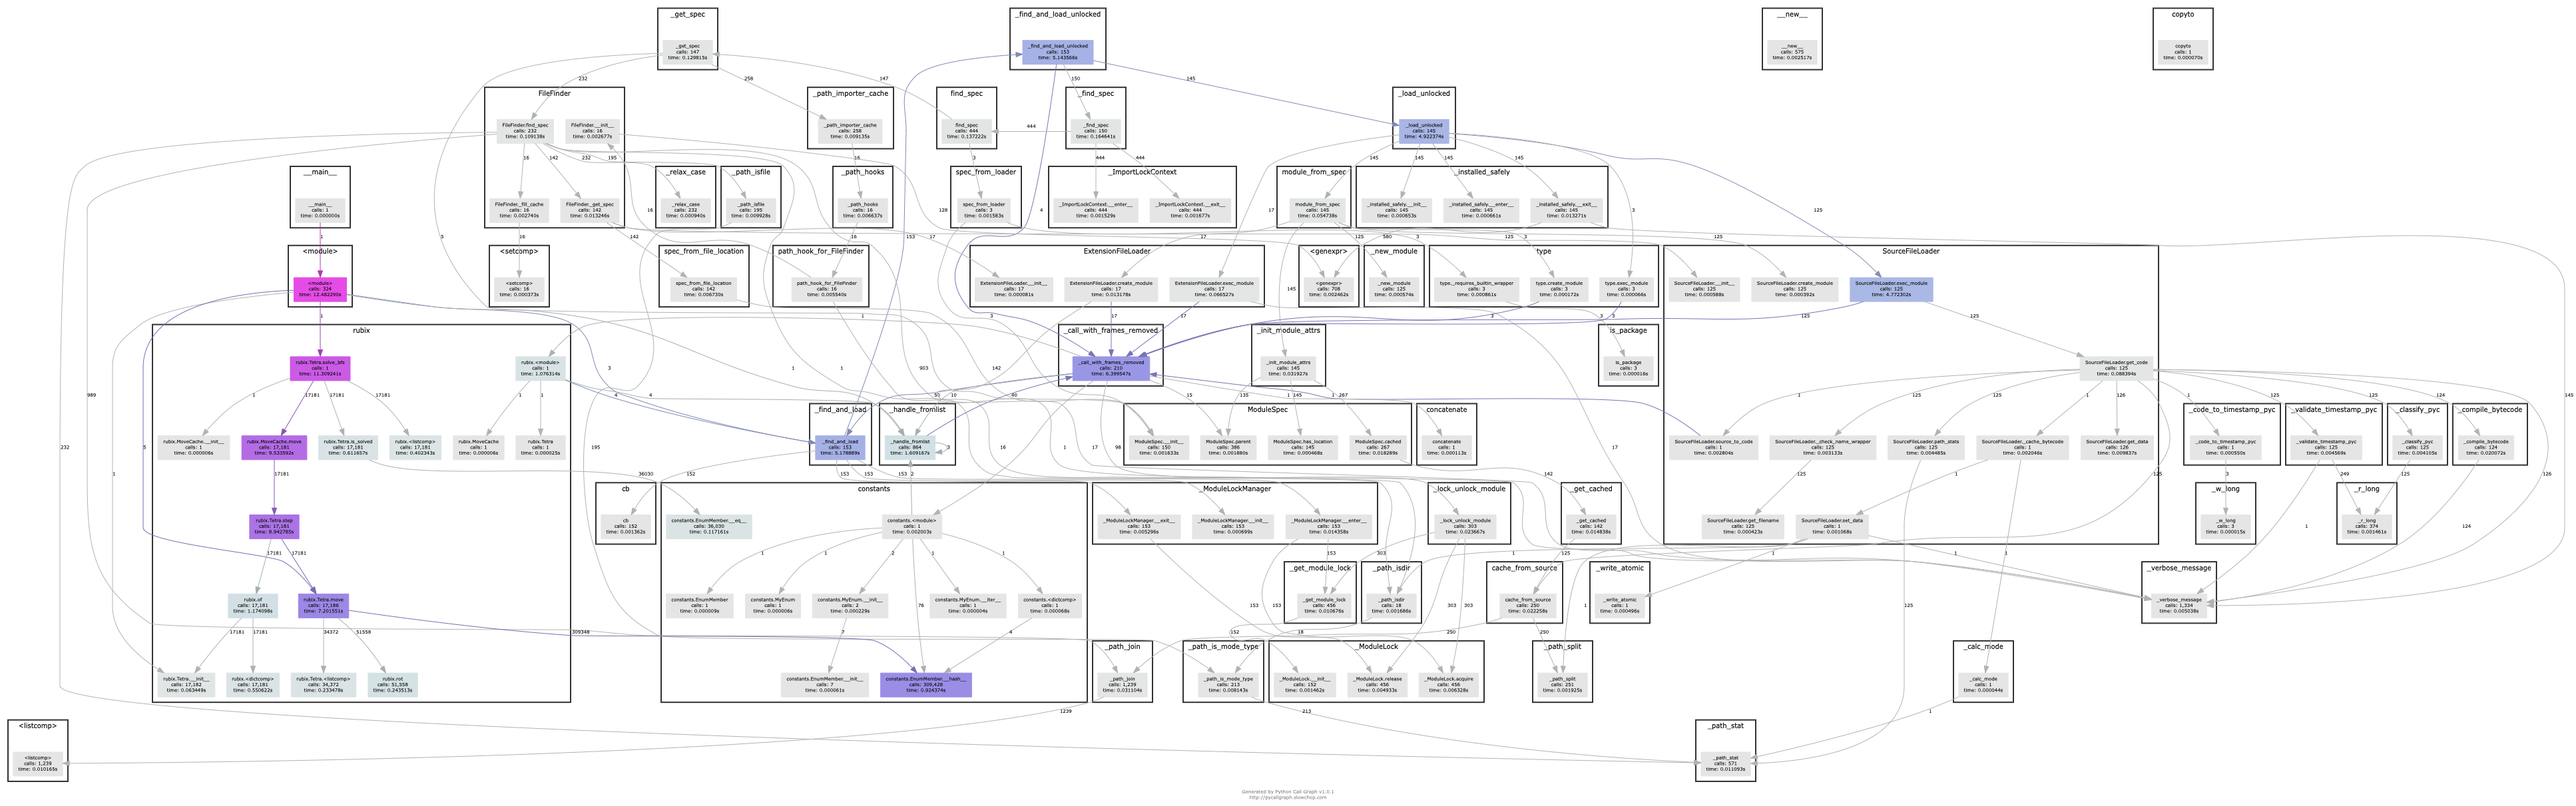
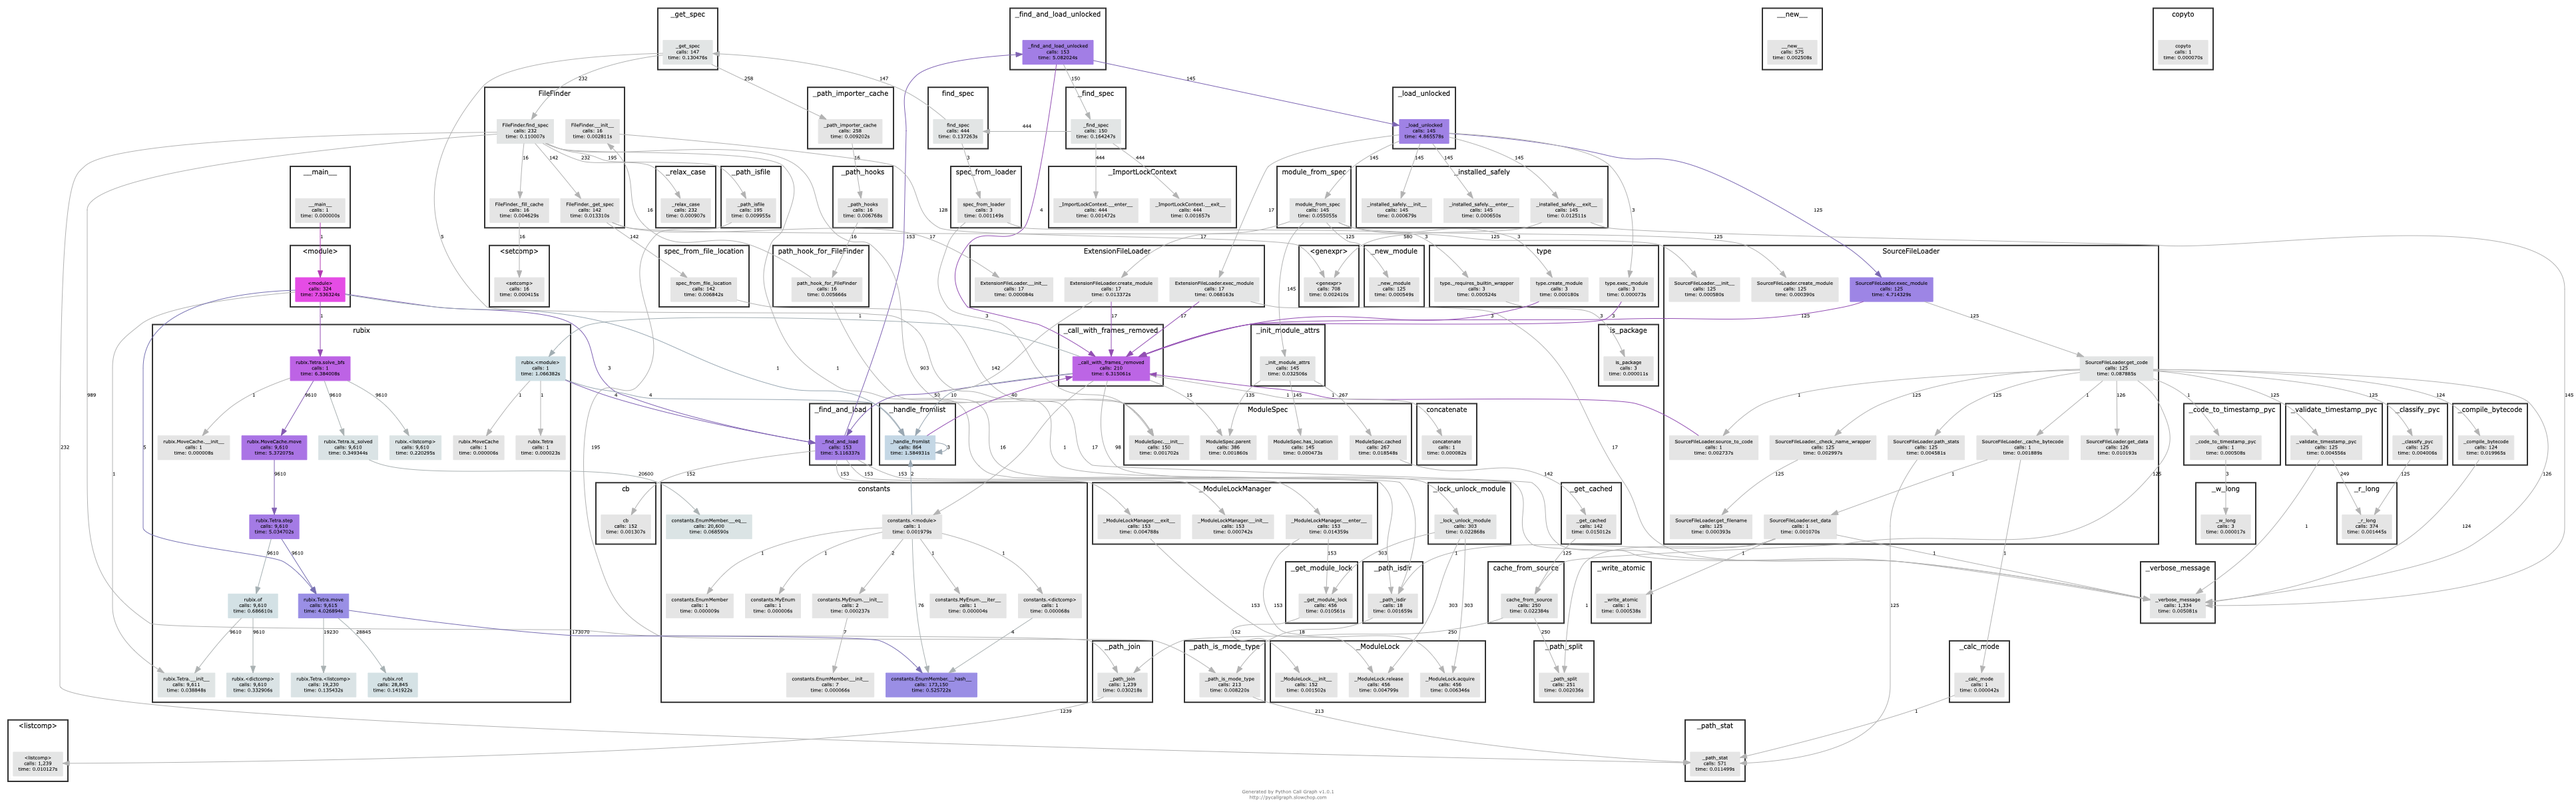
BLAZING

diff --git a/rubix.py b/rubix.py
@@ -129,7 +129,7 @@ class Tetra():
     #     return advance(self, [])
 
     def solve_bfs(self):
-        nodes = deque([(i,) for i in actions.keys()])
+        nodes = deque([(i,) for i in actions])
         cache = MoveCache(self)
 
         while nodes:
@@ -138,7 +138,8 @@ class Tetra():
             if cache.move(path).is_solved():
                 return path
 
-            nodes.extend([path + (i,) for i in actions if i != antithetic[path[-1]]])
+            nodes.extend([path + (i,) for i in actions
+                          if not path or (i != path[-1] and i != antithetic[path[-1]])])
 
 
 

diff --git a/constants.py b/constants.py
@@ -131,4 +131,7 @@ actions = {
     15: (Color.GREEN, 1, Dir.RIGHT),
 }
 # 5, 6
-antithetic = {1: 3, 3: 1, 5: 7, 7: 5, 9: 11, 11: 9, 13: 15, 15: 13}
+antithetic = {1: 3, 3: 1,
+              5: 7, 7: 5,
+              9: 11, 11: 9,
+              13: 15, 15: 13}
